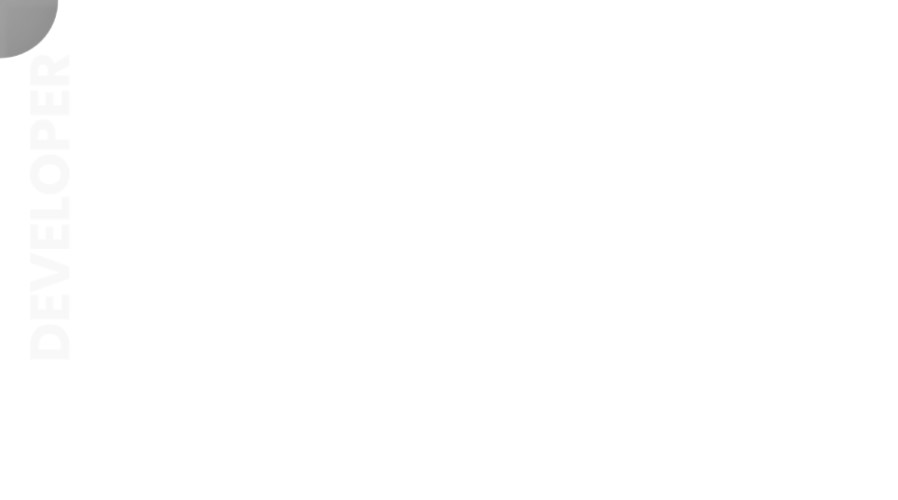
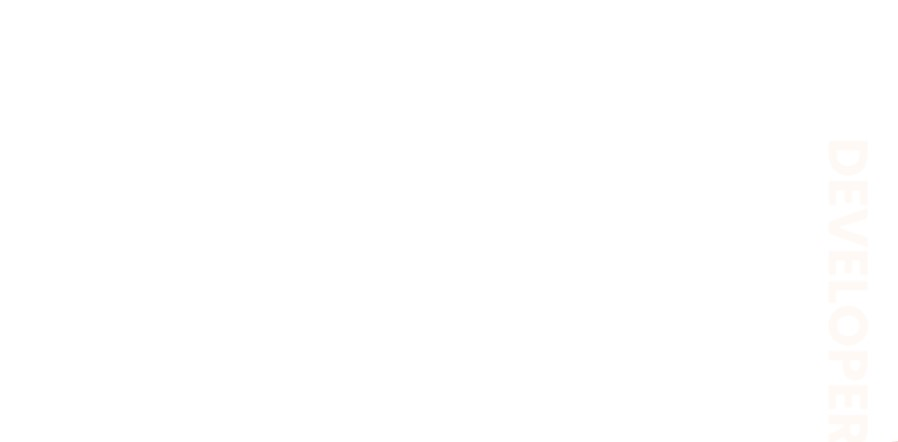
adding all

Changed region(s): [[0.0, 0.0, 0.0624, 0.1176]]

diff --git a/index.html b/index.html
@@ -1,96 +1,100 @@
 <!DOCTYPE html>
 <html lang="en">
-<head>
-    <meta charset="UTF-8">
-    <meta name="viewport" content="width=device-width, initial-scale=1.0">
-    <title>Siddiky Personal Website</title>
-    <link rel="stylesheet" href="style.css">
-    <link rel="stylesheet" href="https://cdnjs.cloudflare.com/ajax/libs/font-awesome/5.15.1/css/all.min.css">
+    <head>
+        <meta charset="UTF-8">
+        <meta name="viewport" content="width=device-width, initial-scale=1.0">
+        <title>Siddiky Personal Website</title>
+        <link rel="stylesheet" href="style.css">
+        <link rel="stylesheet" href="https://cdnjs.cloudflare.com/ajax/libs/font-awesome/5.15.1/css/all.min.css">
 
-    <link rel="preconnect" href="https://fonts.gstatic.com">
-    <link href="https://fonts.googleapis.com/css2?family=Open+Sans&family=PT+Sans&display=swap" rel="stylesheet">
-</head>
+        <link rel="preconnect" href="https://fonts.gstatic.com">
+        <link href="https://fonts.googleapis.com/css2?family=Open+Sans&family=PT+Sans&display=swap" rel="stylesheet">
+    </head>
 
-<body>
-    <section class="top-banner">
-        <div class="half-of-width">
-            <h1>Hello, I'M<br><span class="name-highlight">N.A Siddiky</span></h1>
-            <h3>A Full stack Web Developer</h3>
-            <p>Software engineer with professional experience in web development and information security system.</p>
+    <body>
+        <section class="top-banner">
+            <div class="half-of-width">
+                <h1>Hello, I'M<br><span class="name-highlight">N.A Siddiky</span></h1>
+                <h3>A Full stack Web Developer</h3>
+                <p>Software engineer with professional experience in web development and information security system.</p>
 
-            <a class="button-of-link" target="_blank" href="https://www.linkedin.com/in/na-siddiky/">HIRE ME</a>
-        </div>
+                <a class="button-of-link" target="_blank" href="https://www.linkedin.com/in/na-siddiky/">HIRE ME</a>
+            </div>
 
-        <div class="half-of-width img">
-            <img src="images/siddiky.png" alt="Mr. Siddiky...">
-        </div>
-    </section>
+            <div class="half-of-width img">
+                <img src="images/siddiky.png" alt="Mr. Siddiky...">
+            </div>
+        </section>
 
-    <section class="middle-banner">
-        <div class="half-of-width img">
-            <img src="images/siddiky2.png" alt="Mr. Siddiky...">
-        </div>
-        
-        <div class="half-of-width">
-            <h2>About</h2>
-            <p>Learning is the best way to become a developer. So, i have started my journey by completing basic HTML and CSS and on the way of Web Development.</p>
+        <section class="middle-banner">
+            <div class="half-of-width img">
+                <img src="images/siddiky2.png" alt="Mr. Siddiky...">
+            </div>
             
-            <a class="button-of-link2 fas fa-angle-double-down" target="_blank" href="https://5786173a-8625-4fdc-bf94-388b5e8f99d3.filesusr.com/ugd/77deac_6c139d3ad19f472cbac2dc106d106116.pdf"> View Resume</a>
-        </div>
-    </section>
+            <div class="half-of-width">
+                <h2>About</h2>
+                <p>Learning is the best way to become a developer. So, i have started my journey by completing basic HTML and CSS and on the way of Web Development.</p>
+                
+                <a class="button-of-link2 fas fa-angle-double-down" target="_blank" href="https://5786173a-8625-4fdc-bf94-388b5e8f99d3.filesusr.com/ugd/77deac_6c139d3ad19f472cbac2dc106d106116.pdf"> View Resume</a>
+            </div>
+        </section>
 
-    <section class="third-banner">
-        <h4> <strong>LASTEL WORKING PROJECT</strong> </h4>
-        <div class="main-div center">
-            <div class="third-of-width experience-box clearfix">
-                <img src="images/image 4.png" alt="">
-                <h3>Power-X-gym </h3>
-                <p>i have done multiple hands on project and working with multiple developers community</p>
-            </div>
-            <div class="third-of-width experience-box">
-                <img src="images/image 5.png" alt="">
-                <h3>Power-X-gym </h3>
-                <p>i have done multiple hands on project and working with multiple developers community</p>
-            </div>
-            <div class="third-of-width experience-box">
-                <img src="images/image 8.png" alt="">
-                <h3>Power-X-gym </h3>
-                <p>i have done multiple hands on project and working with multiple developers community</p>
-            </div>
-        </div>
-    </section>
-
-    <section class="fourth-banner">
-        <div class="image-box image-button container clearfix">
-            <img src="images/box.png" alt="Nature">
-            <div class="text-block">
-                <h1>WORK INQUIRY</h1>
-            </div>
-            <div class="button-block">
-                <a class="button-of-link3" target="_blank" href="https://www.facebook.com/Siddiky.Juwel"> Let's Chat</a>
-            </div>
-        </div>
-
-        <div class="last-of-width links-box">
-            <div class="last-of-width inside-links-box-left">
-                <h3 class="name-highlight">Contract</h3>
-                <p> <justify>Willing to share my knowledge and energy to the fullest extent and to work in such an environment that will give me scope to enrich myself with new challenge and opportunities.
-                <b>siddiky.cse@gmail.com</b> and                        
-                <b> Mob: +8801712378303</b></justify></p>
-                <img src="images/QR Code.png" alt="">
-            </div>
-            <div class="inside-links-box last-center">
-                <h4>STAY CONNECTED</h4> 
-                <h5>nasiddiky@outlook.com</h5>
-                <div class="last-center clearfix icon-box">
-                    <img src="icons/Group 33059.png" alt="">
-                    <img src="icons/image 6.png" alt="">
-                    <img src="icons/image 7.png" alt="">    
+        <section class="third-banner">
+            <h4> <strong>LASTEL WORKING PROJECT</strong> </h4>
+            <div class="main-div center">
+                <div class="third-of-width experience-box clearfix">
+                    <img src="images/image 4.png" alt="">
+                    <h3>Power-X-gym </h3>
+                    <p>i have done multiple hands on project and working with multiple developers community</p>
+                </div>
+                <div class="third-of-width experience-box">
+                    <img src="images/image 5.png" alt="">
+                    <h3>Power-X-gym </h3>
+                    <p>i have done multiple hands on project and working with multiple developers community</p>
+                </div>
+                <div class="third-of-width experience-box">
+                    <img src="images/image 8.png" alt="">
+                    <h3>Power-X-gym </h3>
+                    <p>i have done multiple hands on project and working with multiple developers community</p>
                 </div>
             </div>
-        </div>
+        </section>
 
-    </section>
-    
-</body>
+        <section class="fourth-banner">
+            <div class="image-box image-button container clearfix">
+                <img src="images/box.png" alt="Nature">
+                <div class="text-block">
+                    <h1>WORK INQUIRY</h1>
+                </div>
+                <div class="button-block">
+                    <a class="button-of-link3" target="_blank" href="https://www.facebook.com/Siddiky.Juwel"> Let's Chat</a>
+                </div>
+            </div>
+
+            <div class="last-of-width links-box">
+                <div class="last-of-width inside-links-box-left">
+                    <h3 class="name-highlight">Contract</h3>
+                    <p> <justify>Willing to share my knowledge and energy to the fullest extent and to work in such an environment that will give me scope to enrich myself with new challenge and opportunities.
+                    <b>siddiky.cse@gmail.com</b> and                        
+                    <b> Mob: +8801712378303</b></justify></p>
+                    <img src="images/QR Code.png" alt="">
+                </div>
+                <div class="inside-links-box last-center">
+                    <h4>STAY CONNECTED</h4> 
+                    <h5>nasiddiky@outlook.com</h5>
+                    <div class="last-center clearfix icon-box">
+                        <img src="icons/Group 33059.png" alt="">
+                        <img src="icons/image 6.png" alt="">
+                        <img src="icons/image 7.png" alt="">    
+                    </div>
+                </div>
+            </div>
+        </section>
+
+        <section class="fifth-banner">
+            <footer>
+            <p>© N.A Siddiky, A Programing Hero initiative. 2019</p>
+            </footer>
+        </section>            
+    </body>
 </html>

diff --git a/style.css b/style.css
@@ -10,10 +10,7 @@ section{
 }
 
 .top-banner{
-    background-image: url(images/top-banner4.jpg);
-    background-position: top;
-    background-repeat: no-repeat;
-    background-color: linear-gradient(90deg, white,rgb(255, 236, 286))
+    background: linear-gradient(90deg, white,rgb(255, 228, 286))
 }
 
 .middle-banner{
@@ -22,7 +19,7 @@ section{
 
 .third-banner{
     height: 750px;
-    background: linear-gradient(90deg, white,rgb(255, 236, 286))
+    background: linear-gradient(90deg, white,rgb(255, 228, 286))
 
 }
 
@@ -30,6 +27,9 @@ section{
     background: linear-gradient(90deg, rgb(285, 236, 236), white)
 }
 
+.fifth-banner{
+    background: linear-gradient(90deg, white,rgb(255, 228, 286))
+}
 
 h1{
     font-size: 60px;
@@ -230,4 +230,10 @@ p{
     padding: 1%;
     float: left;
     background-color: white;
+}
+
+.bottom-left {
+  position: absolute;
+  bottom: 8px;
+  left: 16px;
 }
